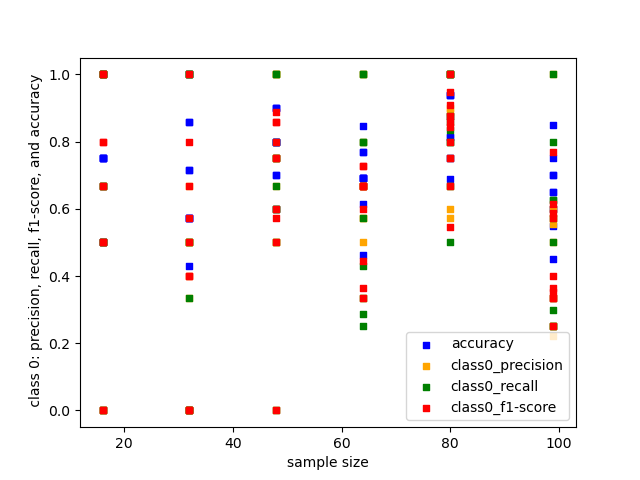
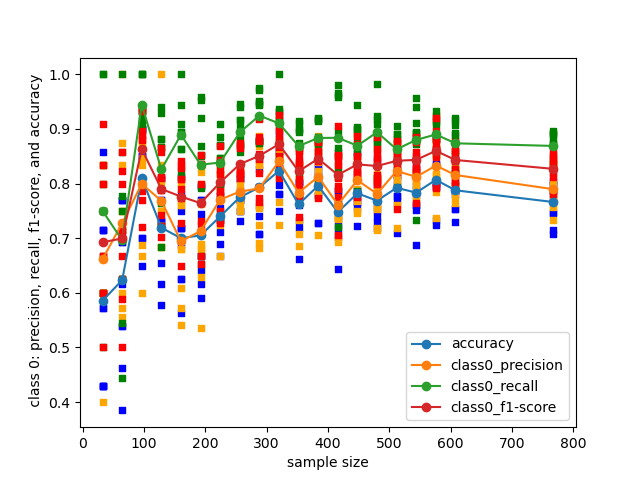
plots work

diff --git a/columns.py b/columns.py
@@ -737,17 +737,20 @@ def classify(table):
 from tqdm import tqdm
 import matplotlib.pyplot as plt
 import pandas as pd
-# def plot():
-#
-#     plt.plot(x, y, label = "accuracy")
-#     plt.plot(y, x, label = "support")
-#     plt.plot(x, y, label = "recall")
-#     plt.plot(y, x, label = "f1-score")
-#     plt.plot(x, y, label = "precision")
-#     plt.plot(y, x, label = "line 2")
-#
-#     plt.legend()
-#     plt.show()
+import numpy as np
+
+
+# def plot(df, xcol, ycols, filename, group):
+#     plt.figure(1)
+#     ax = df.plot(x = xcol, y = ycols, kind = 'scatter', c = 'b', marker = ',')
+#     df.plot(x = xcol, y = , kind = 'scatter', c = 'orange', marker = ',', ax = ax)
+#     df.plot(x = xcol, y = 'macro_recall', kind = 'scatter', c = 'g', marker = ',', ax = ax)
+#     df.plot(x = xcol, y = 'macro_f1-score', kind = 'scatter', c = 'r', marker = ',', ax = ax)
+#     dfmeans = df.groupby(['samples'])['accuracy','macro_precision','macro_recall', 'macro_f1-score'].mean().plot(marker = 'o',ls = '-', ax = ax)
+#     ax.set_xlabel("sample size")
+#     ax.set_ylabel("macro precision, recall, f1-score, and accuracy")
+#     plt.savefig("./plots/"+filename + "macro_SVM.png")
+#     plt.close()
 
 # ------------------------------------------------------------------------------
 # Main
@@ -757,7 +760,8 @@ def datasetswitch(csv, limiter = None):
     dataset = csv
     filename = dataset[:-4] #cut off the .csv
     # colnames = ['accuracy', 'support', 'precision', 'recall', 'f1-score', 'precision_weighted', 'recall_weighted', 'f1-score_weighted', 'samples']
-    colnames = ['samples','accuracy', 'class1_precision', 'class1_recall', 'class1_f1-score','class0_precision', 'class0_recall', 'class0_f1-score', 'macro_precision', 'macro_recall', 'macro_f1-score']
+    colnames = ['samples','accuracy', 'class0_precision', 'class0_recall',
+    'class0_f1-score','class1_precision', 'class1_recall', 'class1_f1-score', 'macro_precision', 'macro_recall', 'macro_f1-score']
     data = {}
     x_data = []
 
@@ -798,45 +802,39 @@ def datasetswitch(csv, limiter = None):
 
     # print("x_data ", x_data)
     df = pd.DataFrame(x_data, columns=colnames)
+    # print(df.head())
 
     df.to_csv("./output/"+filename + "_SVM.csv", index=False)
-    # df.plot(x = 'samples', y = ['accuracy', 'precision', 'recall', 'f1-score'], kind = 'scatter')
-    plot = plt.figure(1)
-    macro_ax = df.plot(x = 'samples', y = 'accuracy', kind = 'scatter', c = 'b', label = 'accuracy', marker = ',')
-    df.plot(x = 'samples', y = 'macro_precision', kind = 'scatter', c = 'orange', label = 'macro_precision', marker = ',', ax = macro_ax)
-    df.plot(x = 'samples', y = 'macro_recall', kind = 'scatter', c = 'g', label = 'macro_recall', marker = ',', ax = macro_ax)
-    df.plot(x = 'samples', y = 'macro_f1-score', kind = 'scatter', c = 'r', label = 'macro_f1-score', marker = ',', ax = macro_ax)
-    # print(df.groupby(by = 'samples').agg({'macro_precision': 'mean'}))
-    # .plot(c = 'orange', marker = 'o', ls = '-', ax = macro_ax)
-    macromeans= df.groupby(by = 'samples', as_index = False)[['macro_precision', 'macro_recall','macro_f1-score']].mean().plot(marker = 'o', ls = '-')
-    # print(macromeans)
-    # macromeans.plot(x = 'samples', y = 'macro_precision', c = 'r', marker = 'o', ls = '-', ax = macro_ax)
-    # macromeans.plot(x = 'samples', y = 'macro_recall', c = 'r', marker = 'o', ls = '-', ax = macro_ax)
-    # macromeans.plot(x = 'samples', y = 'macro_f1', c = 'r', marker = 'o', ls = '-', ax = macro_ax)
-    # .plot(c = 'g', marker = 'o', ls = '-', ax = macro_ax)
-    # df.groupby(by = 'samples', as_index=True)[['macro_f1-score']].mean().plot(c = 'r', marker = 'o', ls = '-', ax = macro_ax)
+
+    plt.figure(1)
+    # macro_ax = df.plot(x = ['samples','samples','samples','samples'], y = ['accuracy','macro_precision','macro_recall', 'macro_f1-score'] , color = ['blue','orange','green', 'red'],kind = 'scatter', marker = ',')
+    macro_ax = df.plot(x = 'samples', y = 'accuracy', kind = 'scatter', c = 'b', marker = ',')
+    df.plot(x = 'samples', y = 'macro_precision', kind = 'scatter', c = 'orange', marker = ',', ax = macro_ax)
+    df.plot(x = 'samples', y = 'macro_recall', kind = 'scatter', c = 'g', marker = ',', ax = macro_ax)
+    df.plot(x = 'samples', y = 'macro_f1-score', kind = 'scatter', c = 'r', marker = ',', ax = macro_ax)
+    dfmeans = df.groupby(['samples'])['accuracy','macro_precision','macro_recall', 'macro_f1-score'].mean().plot(marker = 'o',ls = '-', ax = macro_ax)
     macro_ax.set_xlabel("sample size")
     macro_ax.set_ylabel("macro precision, recall, f1-score, and accuracy")
     plt.savefig("./plots/"+filename + "macro_SVM.png")
     plt.close()
 
     plot2 = plt.figure(2)
-    class0_ax = df.plot(x = 'samples', y = 'accuracy', kind = 'scatter', c = 'b', label = 'accuracy', marker = ',')
-    df.plot(x = 'samples', y = 'class0_precision', kind = 'scatter', c = 'orange', label = 'class0_precision', marker = ',', ax = class0_ax)
-    df.plot(x = 'samples', y = 'class0_recall', kind = 'scatter', c = 'g', label = 'class0_recall', marker = ',', ax = class0_ax)
-    df.plot(x = 'samples', y = 'class0_f1-score', kind = 'scatter', c = 'r', label = 'class0_f1-score', marker = ',', ax = class0_ax)
-    # negdfmeans = df.groupby(by = 'samples')[['class0_precision', 'class0_recall', 'class0_f1-score']].mean().plot(marker = 'o', ls = '-', ax = class0_ax)
+    class0_ax = df.plot(x = 'samples', y = 'accuracy', kind = 'scatter', c = 'b', marker = ',')
+    df.plot(x = 'samples', y = 'class0_precision', kind = 'scatter', c = 'orange', marker = ',', ax = class0_ax)
+    df.plot(x = 'samples', y = 'class0_recall', kind = 'scatter', c = 'g', marker = ',', ax = class0_ax)
+    df.plot(x = 'samples', y = 'class0_f1-score', kind = 'scatter', c = 'r', marker = ',', ax = class0_ax)
+    negdfmeans = df.groupby(['samples'])['accuracy','class0_precision', 'class0_recall', 'class0_f1-score'].mean().plot(marker = 'o', ls = '-', ax = class0_ax)
     class0_ax.set_xlabel("sample size")
     class0_ax.set_ylabel(" class 0: precision, recall, f1-score, and accuracy")
     plt.savefig("./plots/"+filename + "class_0_SVM.png")
     plt.close()
 
     plot3 = plt.figure(3)
-    class1_ax = df.plot(x = 'samples', y = 'accuracy', kind = 'scatter', c = 'b', label = 'accuracy', marker = ',')
-    df.plot(x = 'samples', y = 'class1_precision', kind = 'scatter', c = 'orange', label = 'class1_precision', marker = ',', ax = class1_ax)
-    df.plot(x = 'samples', y = 'class1_recall', kind = 'scatter', c = 'g', label = 'class1_recall', marker = ',', ax = class1_ax)
-    df.plot(x = 'samples', y = 'class1_f1-score', kind = 'scatter', c = 'r', label = 'class1_f1-score', marker = ',', ax = class1_ax)
-    # posdfmeans = df.groupby(by = 'samples')[['class1_precision', 'class1_recall', 'class1_f1-score']].mean().plot(marker = 'o', ls = '-', ax = class1_ax)
+    class1_ax = df.plot(x = 'samples', y = 'accuracy', kind = 'scatter', c = 'b', marker = ',')
+    df.plot(x = 'samples', y = 'class1_precision', kind = 'scatter', c = 'orange', marker = ',', ax = class1_ax)
+    df.plot(x = 'samples', y = 'class1_recall', kind = 'scatter', c = 'g', marker = ',', ax = class1_ax)
+    df.plot(x = 'samples', y = 'class1_f1-score', kind = 'scatter', c = 'r', marker = ',', ax = class1_ax)
+    posdfmeans = df.groupby(['samples'])['accuracy','class1_precision', 'class1_recall', 'class1_f1-score'].mean().plot(marker = 'o', ls = '-', ax = class1_ax)
     class1_ax.set_xlabel("sample size")
     class1_ax.set_ylabel(" class 1: precision, recall, f1-score, and accuracy")
     plt.savefig("./plots/"+filename + "class_1_SVM.png")
@@ -845,11 +843,11 @@ def datasetswitch(csv, limiter = None):
 
 def main():
     random.seed(10019)
-    datasets = ["diabetes.csv"]
+    datasets = ["CleanCOMPAS53.csv","GermanCredit.csv" ]
     pbar = tqdm(datasets)
     for dataset in pbar:
         pbar.set_description("Processing %s" % dataset)
-        datasetswitch(dataset, limiter = 100)
+        datasetswitch(dataset, limiter = None)
     # datasetswitch("diabetes.csv") #clusters
     # datasetswitch("adultscensusincome.csv") #clusters
     # datasetswitch("bankmarketing.csv") #clusters
